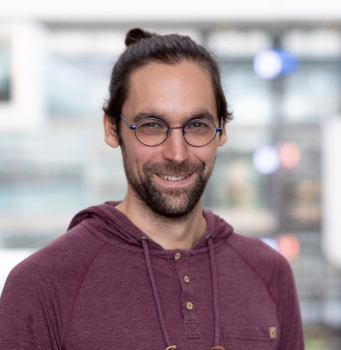
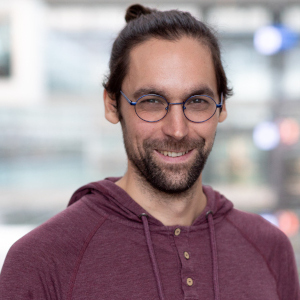
cropped photos to make them quadratic

diff --git a/content/~haak.md b/content/~haak.md
@@ -7,7 +7,7 @@ contact:
   - "fa fa-phone": '+49-69-798-28324'
   - "fa fa-search": 'Room 303, [Robert-Mayer-Str. 11-15](https://goo.gl/maps/h7xTTc3xG7GRQ9wn7)'
   - "fa fa-envelope": 'an<i>{my lastname}</i>@<span style="display: none;">ignoreme-</span><span>em.uni-frankfurt.de</span>'
-photo: /images/haak.jpg
+photo: /images/haak_sqr.jpg
 profiles:
   - "ai ai-dblp": "[DBLP](https://dblp.org/pers/h/Haak:Anselm)"
   - "ai ai-google-scholar": "[Google Scholar](https://scholar.google.com/citations?user=yMUGy6UAAAAJ)"
